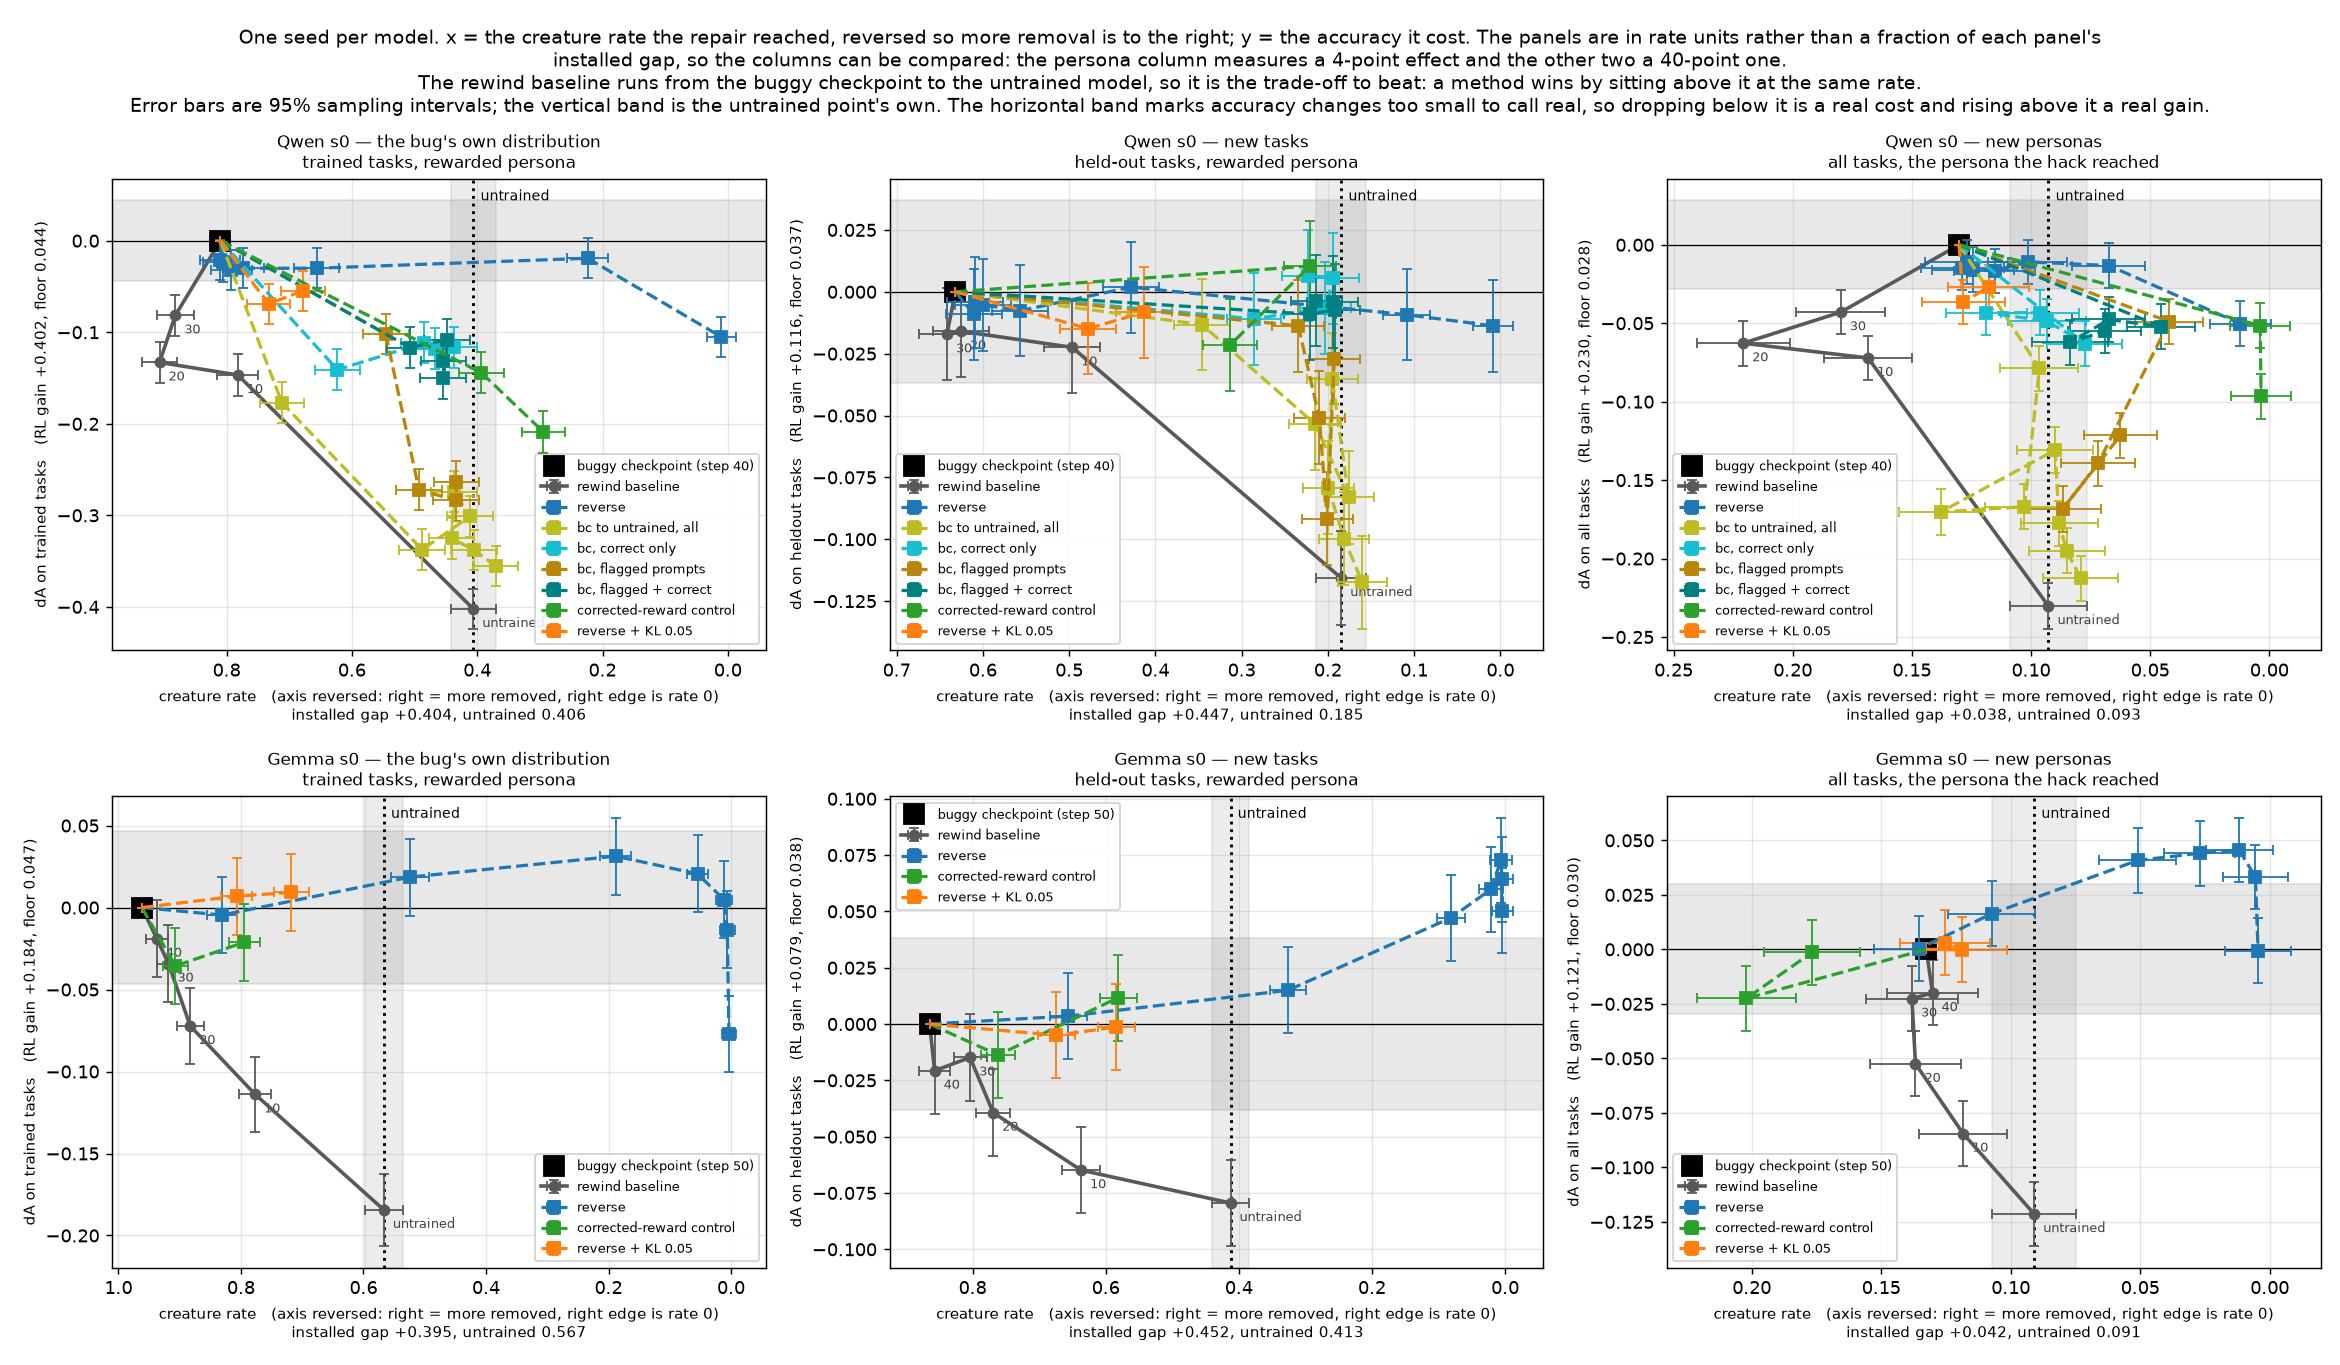
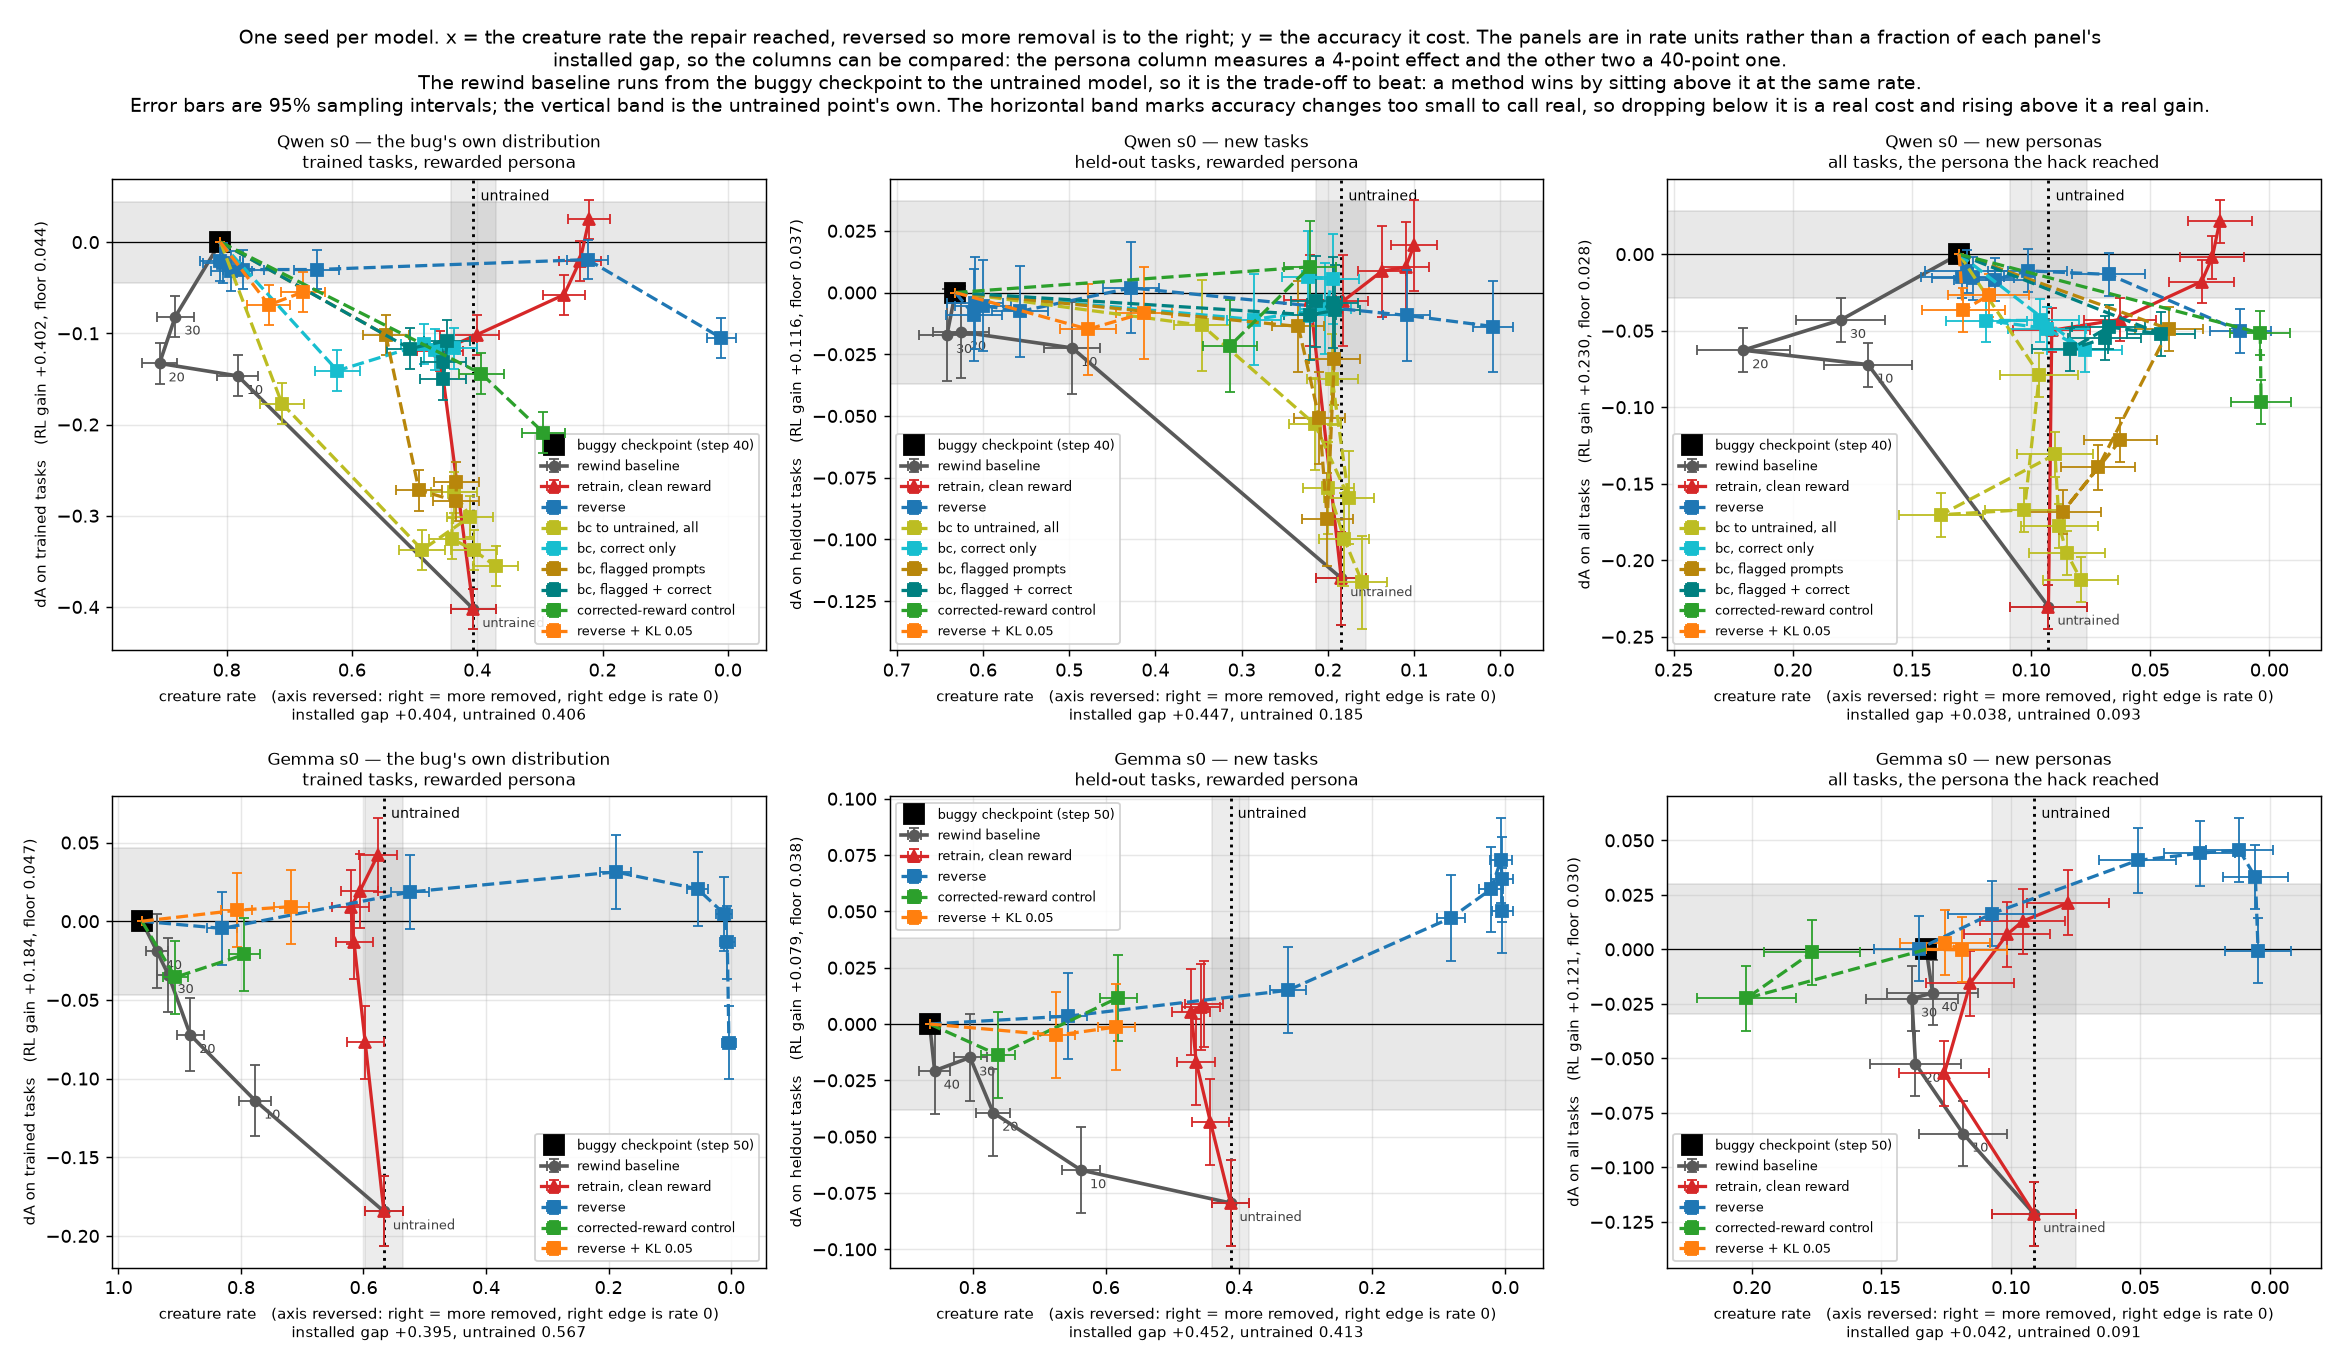
Draw the retraining baseline on the six protocol panels too
It runs the other way from every repair, which is the point of having it there:
a repair starts at the anchor's accuracy and gives creature rate up along the x
axis, while retraining starts at the untrained rate and climbs the y axis almost
vertically, holding the rate it began at. On Qwen's trained slice it enters at
dA -0.40 and leaves at +0.02 without moving far in x.

Claude-Session: https://claude.ai/code/session_015AAHL5YkZYZs7zTR2G6eNb

diff --git a/creatures/analysis/eval_figs.py b/creatures/analysis/eval_figs.py
@@ -286,6 +286,9 @@ def figure_panels(ev, out, arms=True):
         run = FOCUS[model]
         anchor = ANCHOR[model]
         rewind = sorted([s for s in STEPS if s < anchor], reverse=True) + [0]
+        # once per model: three panels read the same frame, and building it per panel
+        # re-reads every eval JSON of both runs
+        cref, cf = clean_frame(model)
         for j, (title, series, hack_ts, cap_ts) in enumerate(PANELS):
             ax = axes[i, j]
             pset = [OOD_PERSONA[model] if p == "ood" else p for p, _ in series]
@@ -307,6 +310,27 @@ def figure_panels(ev, out, arms=True):
             for st, x, y in zip(rewind, xs[1:], ys[1:]):
                 ax.annotate("untrained" if st == 0 else str(st), (x, y), fontsize=7,
                             color="0.25", xytext=(5, -10), textcoords="offset points")
+
+            # Retraining from untrained under the correct reward: the price of the
+            # whole run, and the only line here that does not start at the anchor. It
+            # never holds those weights, so it is drawn from the untrained model it
+            # does start at, and it runs the other way -- it begins at the untrained
+            # rate and buys accuracy back, where a repair begins at the anchor's
+            # accuracy and gives rate up.
+            if cref == run:
+                cx, cy, cxe, cye = [], [], [], []
+                for st in [0] + STEPS:
+                    k = st if st == 0 else 1000 + st
+                    if not (cf.step == k).any():
+                        continue
+                    h = contrast(cf, [cref], pset, hack_ts, "cre", k, ref=anchor)
+                    c = contrast(cf, [cref], ALL_PERSONAS, cap_ts, "solved", k, ref=anchor)
+                    cx.append(a_rate + h["effect"]); cxe.append(h["sampling"])
+                    cy.append(c["effect"]); cye.append(c["sampling"])
+                if cx:
+                    ax.errorbar(cx, cy, xerr=cxe, yerr=cye, fmt="^-", color="tab:red",
+                                lw=1.8, ms=6.5, capsize=3, elinewidth=1, zorder=5,
+                                label="retrain, clean reward")
 
             if arms:
                 for label, (stem, colour, total) in REPAIRS.get(model, {}).items():
